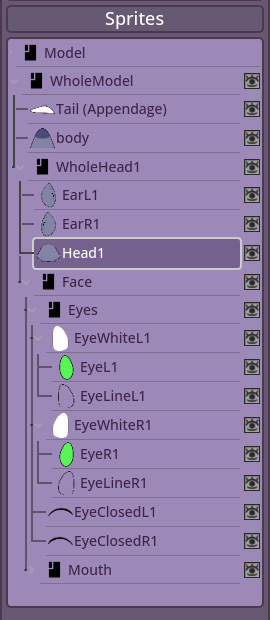
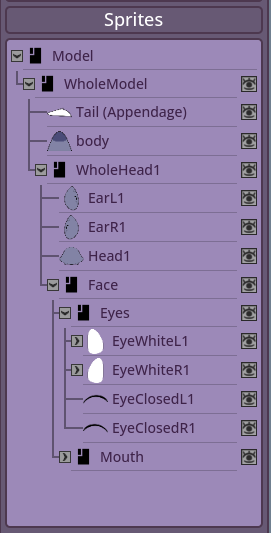
updating doc

Changed region(s): [[0.0, 0.0, 1.0, 1.0]]

diff --git a/OnlineDoc/README.md b/OnlineDoc/README.md
@@ -14,7 +14,6 @@
   - [Settings](#settings)
   - [Assigning Input keys](#assigning-input-keys)
   - [Save and Load](#save-and-load)
-  - [Streamer Session](#streamer-session) (Still Work in progress, not recommended to use)
 - [FAQ](#faq)
 
 ## Getting Started
@@ -100,15 +99,49 @@ You can Drag and Drop from your File Manager/ Images onto the Previews to set th
 
 ##### Layers Tools:
 
-![BasicMovement](assets/Tutorial_image_18.PNG)
+(in order from Top row)
+
+- Unlink/ Unparent : Unlinks your Object from its current parent and sets its new parent to the SpriteHolder.
+- Comment Block : A Debug Object type that lets you add comments for your Model. The same block can be reused in different states with different comments in it.
+
+- Flip Horizontally : Enables you to Flip non-animated Images horizontally.
+- Flip Vertically : Enables you to Flip non-animated Images Vertically.
+- Image Rotation : Enables you to Rotate non-animated Images Clockwise.
+
+
+- Add Sprite : A quick shortcut to add a new Sprite Object.
+- Add Appendage : A quick shortcut to add a new Appendage Object.
+- Add Folder : Folders are very much empty Sprite Objects that can still be used as a Sprite Object, just without any textures asigned to it.
+
+- Replace Image : Lets you replace the current used Image of the Selected Object.
+- Duplicate Objects : Enables you to duplicate the current selected Object(s) and its(their) hierarcy in the Layers Tree.
+- Delete Object : Deletes your selected Object(s).
+
+- Add Normal Map : Allows you to select an Image from your file system to be used as a Normal Map.
+- Remove Normal Map : Removes the Normal Maps of the current selected Objects.
+
+![Tools](assets/Tutorial_image_18.PNG)
 
 ##### Layers:
 
-![BasicMovement](assets/Tutorial_image_19.PNG)
+This is where you edit your Object hierarcy in the scene/ model. You can do so by dragging and dropping the Tree Layer items around. Dropping on the "Model" item sets the Object's parent to the SpriteHolder.
+
+You can also collapse the Tree items if you want
+
+
+![TreeLayer](assets/Tutorial_image_19.PNG)
 
 ##### File Manager:
 
-![BasicMovement](assets/Tutorial_image_20.PNG)
+This is a newly introduced feature in V1.4.x. 
+
+You can from here check the amount of used Images and reuse them in your Model without having to reimport them again. You can directly add new Images from the File Manager 
+
+(Which won't be added to the scene unless you dragged and dropped it on the scene/ Model view area). 
+
+You can Replace the Image here too, which any item that uses that image data will automatically update to the newly replaced data.
+
+![FileManager](assets/Tutorial_image_20.PNG)
 
 
 #### Right Panel : 
@@ -174,24 +207,24 @@ models like the ones seen in VeadoTube Mini and Gazō-Tuber
 - Physics:  
 If this is on, the object’s movement gets affected by the parent’s Y-axis movement. This could be used to add more flavor to your model!
 
-#### Ignore Bounce Example:
+##### Ignore Bounce Example:
 |Ignore Bounce On|Ignore Bounce Off|
 
 ![IgnoreBounce](assets/IgnoreBounce.gif)
 
-#### Physics Example:
+##### Physics Example:
 |Physics On|Physics Off|
 
 ![Physics](assets/Physics.gif)
 
-#### Clip Children:
+##### Clip Children:
 > Sadly I am unable to find a good way to implement Clipping Masks.  
 The only current way to clip stuff is to make the object a child of  
 what you want to clip the object to and enable Clip Children on  
 the parent object.  
 This is a limitation I hope to be able to solve in the future 😇 
 
-### Assets
+##### Assets
 Assets and Asset Toggles. Assets can be used on any Object Type. They are completely separate from States too. You need to keep in mind that an asset's toggle key and data is shared between all States.
 
 - Is Asset : This is where you can make the Object an asset. Next to it is the keybind corresponding to this asset.
@@ -201,7 +234,7 @@ Assets and Asset Toggles. Assets can be used on any Object Type. They are comple
 
 ![Properties](assets/Tutorial_image_3.PNG)
 
-### Basic movement concepts
+##### Basic movement concepts
 Movements in PNGTube-Remix work using the concept of Sine Movement/ Sine Waves.
 - X-Amp : The amound of amplitude the object moves to on the x-axis.
 - X-Freq : The frequency of movement on the object per second on the x-axis.
@@ -232,7 +265,7 @@ Movements in PNGTube-Remix work using the concept of Sine Movement/ Sine Waves.
 ![FollowMove](assets/Tutorial_image_9.png)
 
 ---
-### Wiggle
+##### Wiggle
 **<center>Follow Appendage Tip</center>**
 - Follow Appenage : If the Object is a child of an appendage, this feature allows the object to follow one of the appendage points. V1.4.1 onwards will allow you to reposition the object anywhere. Allowing the user to follow a specific point without being fully bound to it.
 - Point : The point on which the object follows.
@@ -275,7 +308,7 @@ Check this [Basic Appendage Parameters for Artists](https://github.com/Tameno-01
 
 ![Appendages](assets/Tutorial_image_6.PNG)
 ---
-### Animation
+##### Animation
 This section is for controlling the Sprite-Sheet, Gif and APNG animations and few misc stuff.
 - Horizontal and Vertical Animation Frames : these are used for Sprite-Sheets, can be used on horizonal, vertical or grid sheets.
 - Animation Speed : The speed in which your animated sheet plays.
@@ -304,7 +337,7 @@ This section is for controlling the Sprite-Sheet, Gif and APNG animations and fe
 
 ![Fades](assets/Tutorial_image_8.PNG)
 ---
-### Model
+##### Model
 **<center>Model Animations</center>**
 - Mouth Closed/ Open : Either of these lets you choose the animations you want to apply on the model when talking/ not talking.
 
@@ -332,7 +365,7 @@ This section is for controlling the Sprite-Sheet, Gif and APNG animations and fe
 ![Model](assets/Tutorial_image_13.PNG)
 
 ---
-### Light
+##### Light
 Light can be used with the Normal Maps feature to give your model a dynamic light effect. Lights can still be used without Normal Maps, however.
 
 - Light Visible : Enables/ disables the Light feature.
@@ -353,23 +386,16 @@ Light can be used with the Normal Maps feature to give your model a dynamic ligh
 ![Light](assets/Tutorial_image_14.PNG)
 
 ---
-### Mesh
+##### Mesh
 Sorry, I broke it. Just kidding, I am still working on it.
 
 ![Meshes](assets/Tutorial_image_15.PNG)
 
-![Model](assets/AddingMeshes.gif)
+![AddingMesh](assets/AddingMeshes.gif)
 
 ---
-### Test
+##### Test
 Here, new features are usually added for testing before becoming official. Honorable mention : Advanced Lipsync.
-
----
-### Assigning Input keys and Naming States
-In V1.4 onwards, assigning Input Keys/ renaming States is done from the Remap button ontop of the states as shown here, not from settings. Don't forget to press enter after renaming your State.
-
-![Input](assets/Tutorial_image_1.PNG)
-![Input2](assets/Tutorial_image_2.png)
 
 ---
 ### Websocket
@@ -379,11 +405,56 @@ Special thanks for vj4 for the feature!
 
 ![Webs](assets/Tutorial_image_16.PNG)
 
+
 ---
-### Settings
+### Assigning Input keys and Naming States
+In V1.4 onwards, assigning Input Keys/ renaming States is done from the Remap button ontop of the states as shown here, not from settings. Don't forget to press enter after renaming your State.
+
+![Input](assets/Tutorial_image_1.PNG)
+![Input2](assets/Tutorial_image_2.png)
+
+
+---
+
+### Top Panel : 
+
+#### Files
+
+- New : Opens a new file for you to create a new model in.
+- Open : For loading existing Models.
+- Save : Saves your current Model.
+- Save As : Saves your model to a new location.
+- Import : You can import Sprites and/ or Appendages or load a PSD file.
+- Demo Models : Some sample demo models of Pickles the Cat.
+- Lipsync Configuration : Opens a window where you can setup your lipsync data.
+- Quick Save and Reload : A quick hot reload for your current model. Can be used to reset Animations sync.
+- Model Optimizer : WARNING THIS CAN BREAK YOUR MODEL IF YOU AREN'T CAREFUL ENOUGH. This opens a popup where you can Trim/ Resize your model.
+- Export Model Parts : Exports all the images currently used in your model (or that exists in the File Manager in general).
+
+##### Save and Load
+To Save and Load your model, you go to Files > Save/ Files > Save As and for loading, you go to File > Open.
+
+![Files](assets/Tutorial_image_21.png)
+
+---
+
+#### Mode 
+
+- Editor : The main editor where you can edit your model.
+- Preview : Previously "PNGTube Mode," this is where you can preview your model and use it for streaming.
+
+---
+
+#### BG Color 
+
+This is where you can choose the Background color of your preview or during streaming. It can be one of the presets or custom.
+
+---
+
+#### Settings
 - UI Theme : Changes the theme/ UI colors.
 
-#### Model
+##### Model
 - Detect Hotkeys : Enables/ Disable the Hotkeys detection.
 - Anti-Aliasing : Enables/ Disables the anti-aliasing on the entire model.
 - Auto-load Model : Auto loads your model between sessions.
@@ -394,18 +465,18 @@ Special thanks for vj4 for the feature!
 - Follow Mouse Screen : The Screen which the follow mouse mainly focuses on when detecting the mouse position.
 - Snap Out of Bounds : Disables the mouse position detection if it is out of the selected screen.
 
-#### Audio
+##### Audio
 - Volume : The threshold for the volume for detecting your speech.
 - Delay : The threshold/ delay of your mouth
 - Volume Sensitivity : Increases the sensitivity of the microphone detection.
 - Microphone : This is where you can select your microphone of choice.
 - Restart Microphone : This was added to restart the microphone if it stopped working.
 
-#### Import
+##### Import
 - Crop Images to Content : Trims/ Crops the transparent area around the images you import.
 - Keep Data Before Trim/ Crop : 
 
-#### Remix Settings
+##### Remix Settings
 - UI Scale : Scales up or down your UI depending on your needs.
 - Floaty Panning : Enables/ Disables floaty/ Snappy camera panning using the middle mouse button.
 - Fancy Cursor in Editor/ Preview : Custom cursors for editor or preview.
@@ -415,13 +486,25 @@ Special thanks for vj4 for the feature!
 - Audio Backend : Two different Audio input methods, use what feels better for your use.
 
 ---
-### Save and Load
-To Save and Load your model, you go to Files > Save/ Files > Save As and for loading, you go to File > Open.
 
+#### Window
+
+Wip
 
 ---
-### Streamer Session
-(Still Work in progress, not recommended to use if you have a version with the feature enabled. It is currently Disabled.)
+
+#### About
+
+This is where you can find info about the software like credits, current version, etc..
+
+#### Pause Movement 
+
+Previously Static View, this feature can be used to freeze your model to allow you to accurately edit object placements and offsets.
+
+#### Show UI 
+
+An editor only toggle that allows you to quickly hide the ui without having to go to preview mode.
+
 
 ---
 ## FAQ